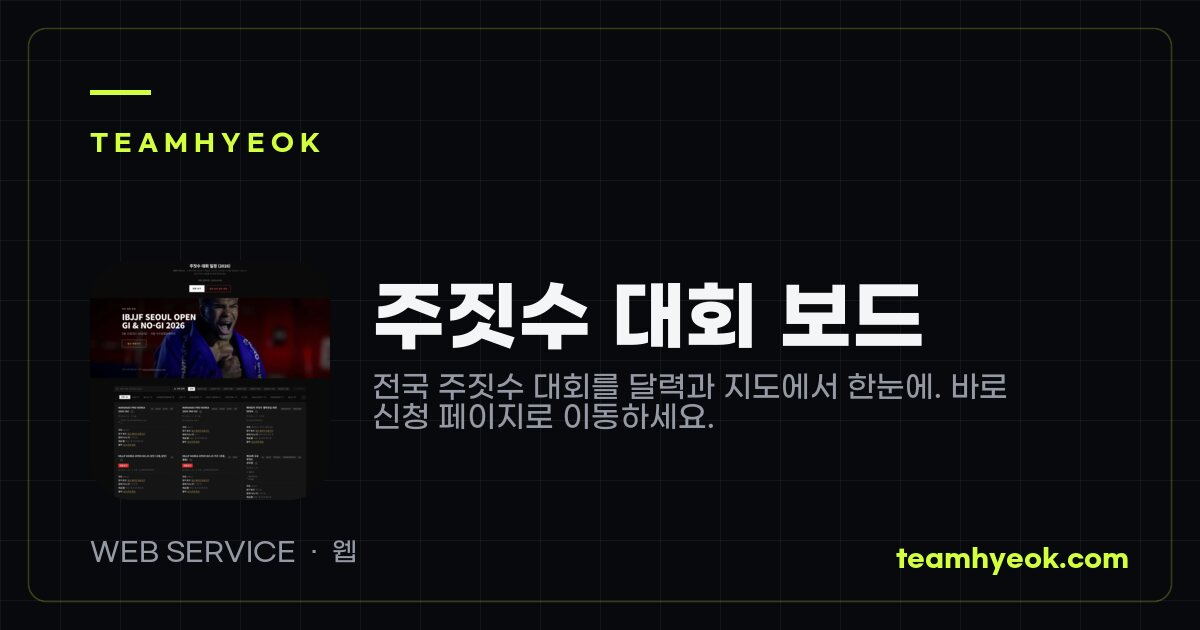
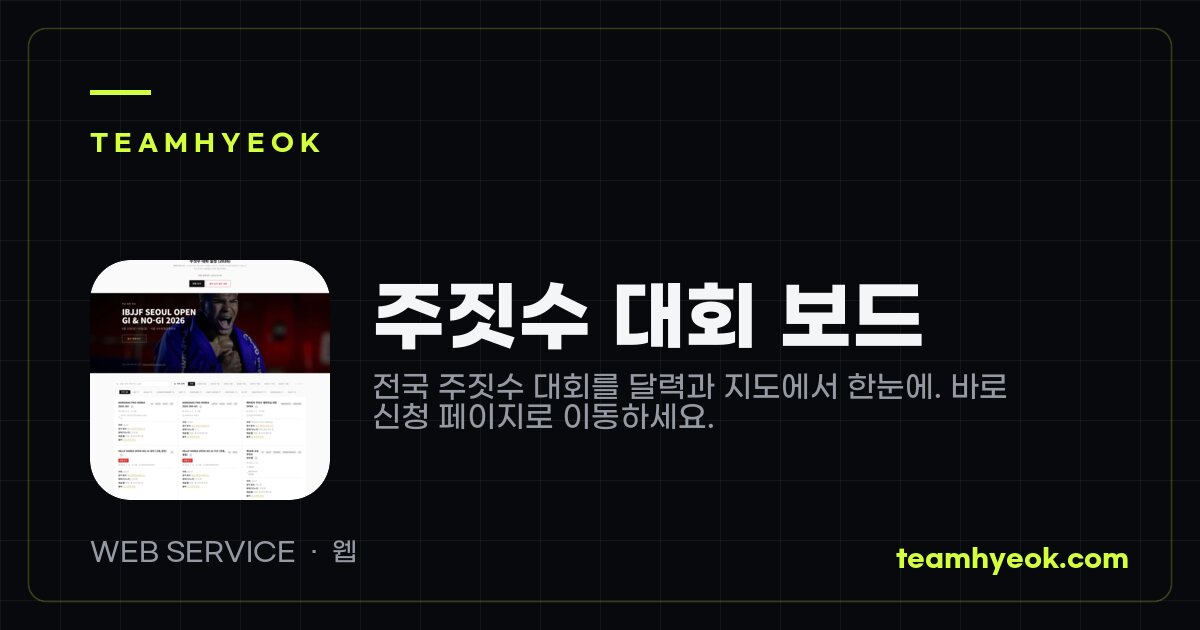
Recapture jiujitsu board in light mode (matches live appearance)
The previous headless capture rendered in dark mode (Chrome headless
defaults to prefers-color-scheme: dark), which collapsed the orange
title hero and looked like an old/wrong version. Forced light mode so
the shot matches what visitors actually see: white chrome, the IBJJF
Seoul Open hero, and the populated event board. Updated dimensions
(1440x1648) and regenerated the OG card.

Changed region(s): [[0.0617, 0.3921, 0.2775, 0.8143]]

diff --git a/services/jiujitsu/index.html b/services/jiujitsu/index.html
@@ -121,7 +121,7 @@
         <section class="container bjj-shot">
             <div class="bjj-shot__frame" data-animate>
                 <span class="bjj-shot__label">실제 화면</span>
-                <img src="../../assets/images/jiujitsu_main.webp" alt="주짓수 대회 보드 예시 화면" width="1440" height="1588" loading="lazy">
+                <img src="../../assets/images/jiujitsu_main.webp" alt="주짓수 대회 보드 예시 화면" width="1440" height="1648" loading="lazy">
             </div>
             <div class="bjj-shot__caption">
                 <p class="bjj-shot__eyebrow">Screenshots</p>
